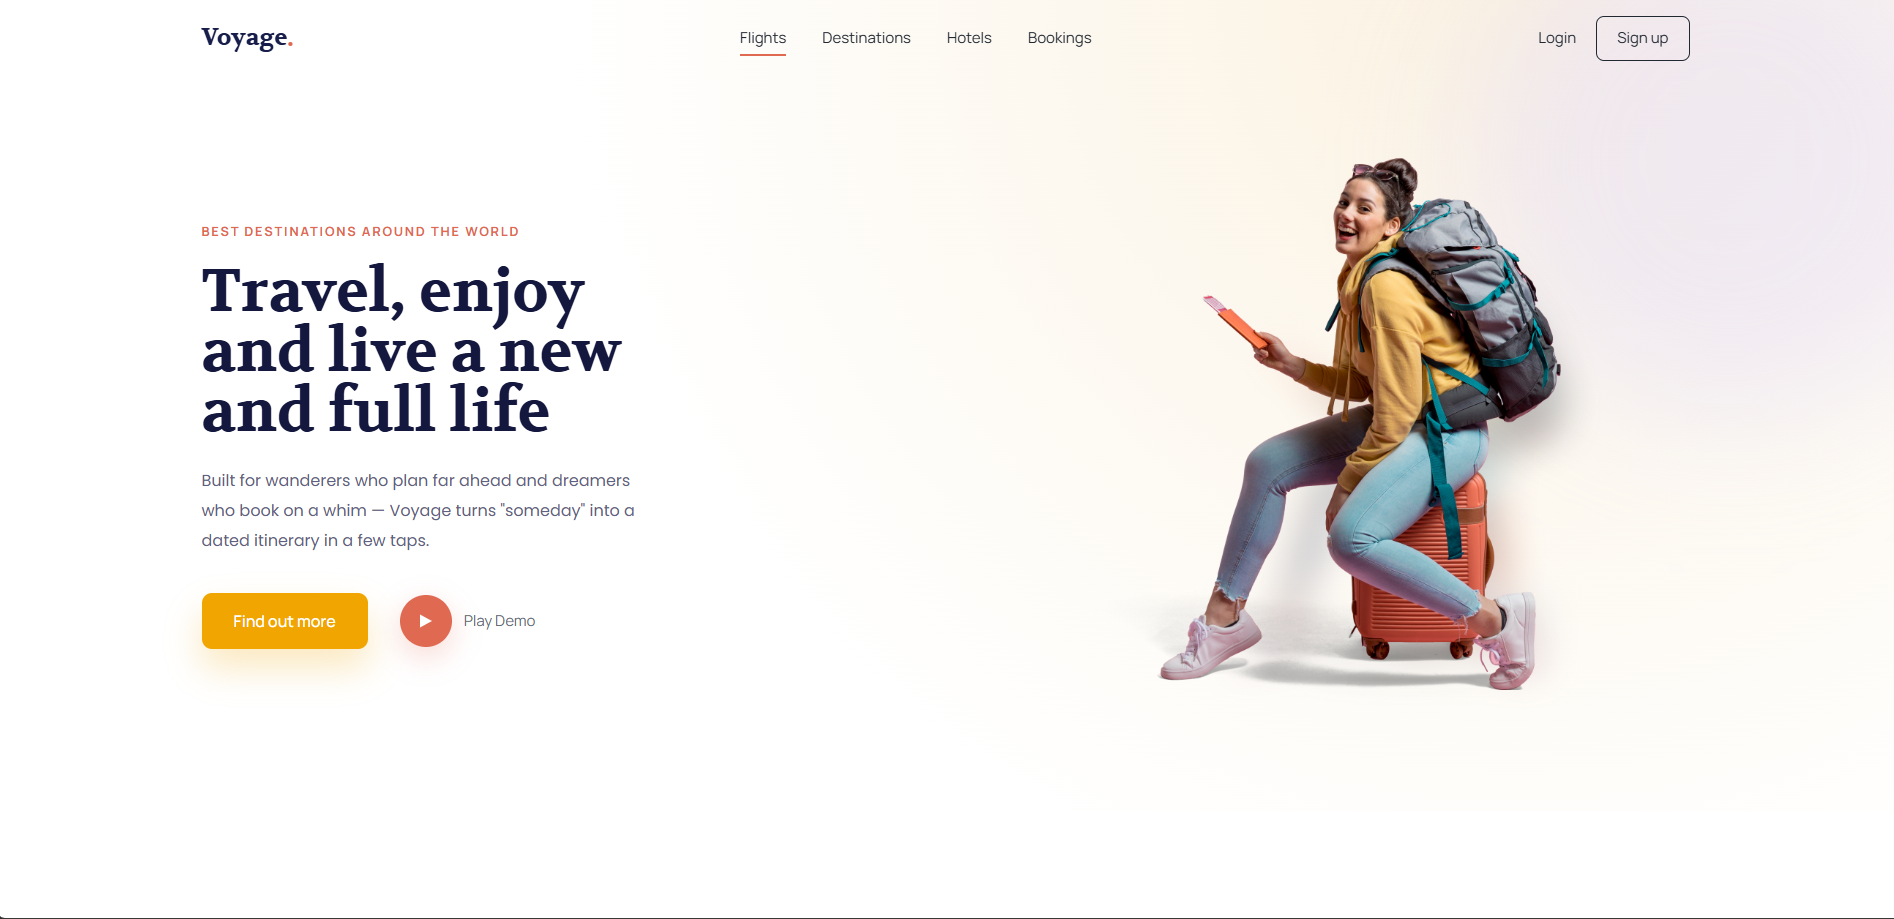
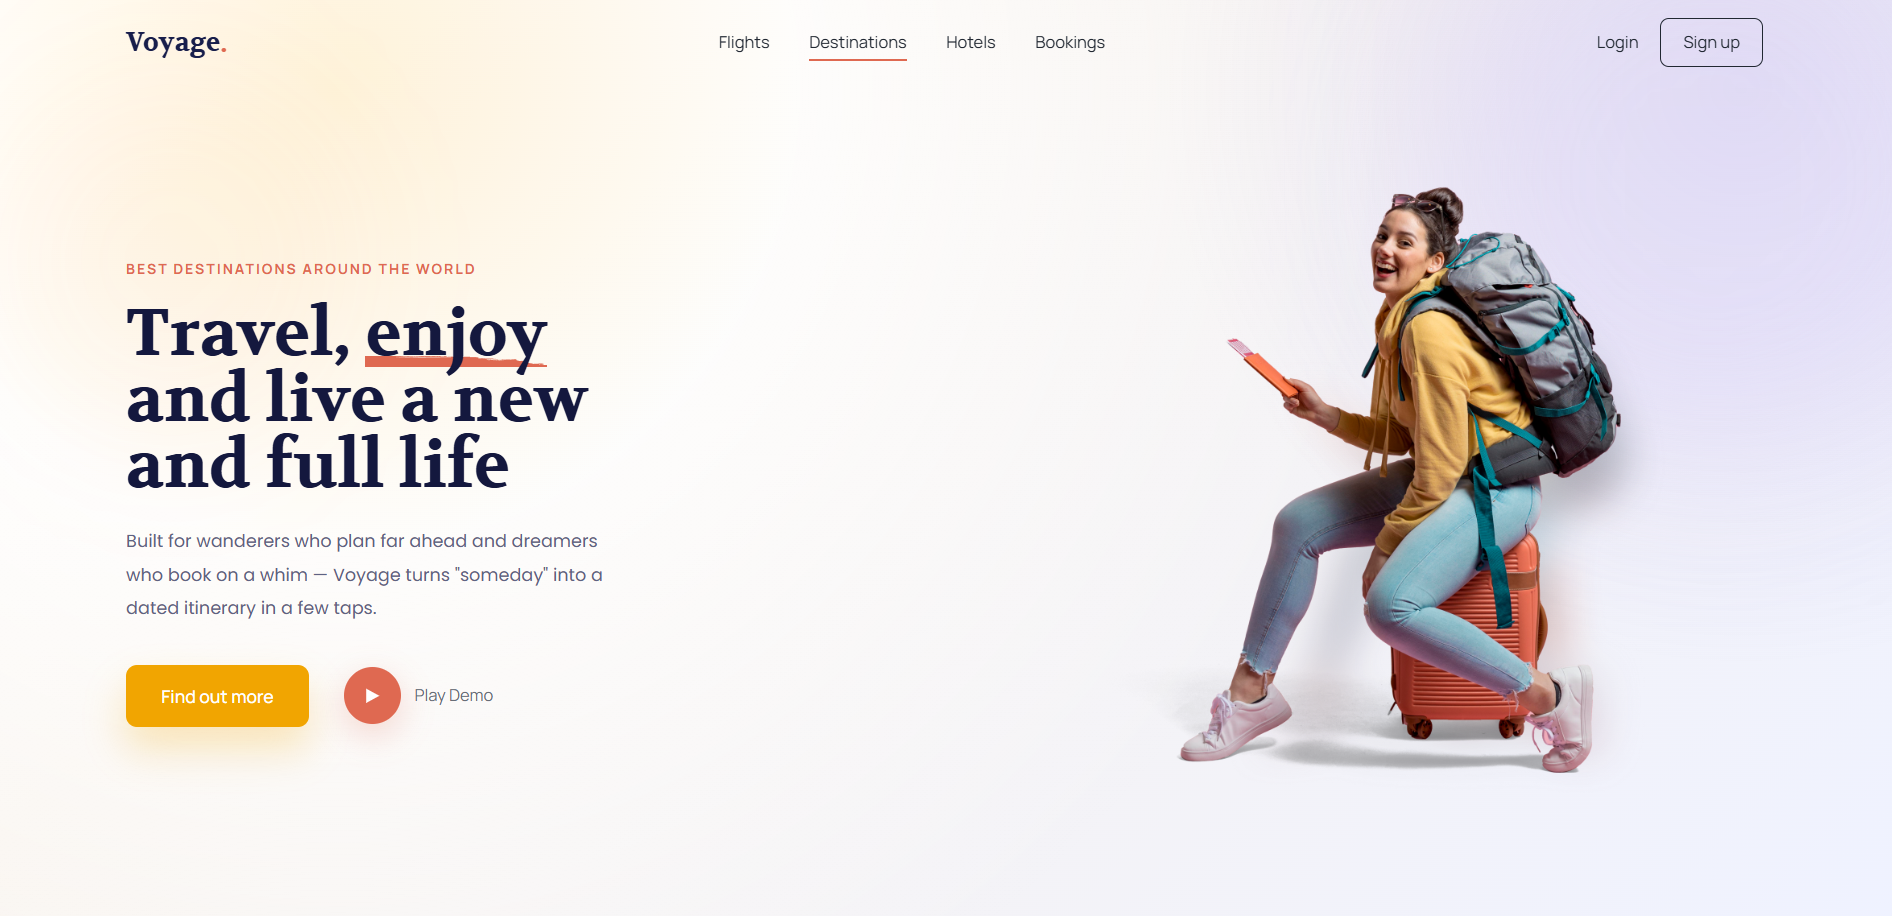
edited projects section

diff --git a/src/data/projects.js b/src/data/projects.js
@@ -31,6 +31,7 @@ import nightwaveThumbnail from '../assets/images/NightWave/nightwave.JPG';
 import harborbookThumbnail from '../assets/images/HarborBook/harborbook.JPG';
 import freshplateThumbnail from '../assets/images/FreshPlate/thumbnaill.JPG';
 import coursecompassThumbnail from '../assets/images/CourseCompass/thumbnail.JPG';
+import emberThumbnail from '../assets/images/Ember/ember-thumbnail.PNG';
 import voyageThumbnail from '../assets/images/Voyage/voyage-thumbnail.png';
 import plantumThumbnail from '../assets/images/Plantum/plantum-thumbnail.png';
 import plantumDemo from '../assets/videos/plantum/plantum-demo.mp4';
@@ -179,6 +180,24 @@ const projects = [
     ],
   },
   {
+    slug: 'ember',
+    title: 'Ember',
+    description:
+      'A marketing landing page for a copy-paste SaaS landing kit — polished dark, amber-toned pages for product teams who want to ship without designing from scratch.',
+    longDescription:
+      'Ember is a marketing landing page for a copy-paste SaaS landing kit. Aimed at product teams who want a polished dark, amber-toned site without designing from scratch — drop the React, shadcn/ui, and Tailwind components into a Next.js app, swap branding and copy, and ship.',
+    role: 'Product Designer & Frontend Developer',
+    tech: ['React', 'Next.js', 'Tailwind CSS', 'SaaS'],
+    year: '2026',
+    thumbnail: emberThumbnail,
+    externalLink: 'https://ember-eight-peach.vercel.app/',
+    highlights: [
+      'Copy-paste landing kit for React, shadcn/ui, and Tailwind',
+      'Dark amber-toned marketing site tuned for SaaS launches',
+      'Drop components into Next.js, swap brand and copy, then ship',
+    ],
+  },
+  {
     slug: 'coursecompass',
     title: 'CourseCompass',
     description:
@@ -196,6 +215,7 @@ const projects = [
       'User-friendly dashboard with insights',
     ],
   },
+
   {
     slug: 'flowlaunch',
     title: 'FlowLaunch',

diff --git a/src/components/ProjectCard.jsx b/src/components/ProjectCard.jsx
@@ -2,8 +2,17 @@ import { memo } from 'react';
 import { Link } from 'react-router-dom';
 import { motion } from 'framer-motion';
 
+const CONTAIN_THUMBNAIL_SLUGS = new Set([
+  'voyage',
+  'verdura',
+  'aqro-mobile-app',
+  'dictionary-app-java',
+  'roomba-boarding-house-finder',
+]);
+
 function ProjectCard({ project }) {
   const isExternal = !!project.externalLink;
+  const containThumbnail = CONTAIN_THUMBNAIL_SLUGS.has(project.slug);
   const linkProps = isExternal
     ? {
         href: project.externalLink,
@@ -29,12 +38,20 @@ function ProjectCard({ project }) {
           isExternal ? `Visit ${project.title}` : `Learn more about ${project.title}`
         }
       >
-        <div className="relative aspect-[16/10] bg-white/[0.03] overflow-hidden flex items-center justify-center flex-shrink-0 border-b border-white/10">
+        <div
+          className={`relative aspect-[16/10] bg-white/[0.03] overflow-hidden flex-shrink-0 border-b border-white/10 ${
+            containThumbnail ? 'flex items-center justify-center' : ''
+          }`}
+        >
           {project.thumbnail ? (
             <img
               src={project.thumbnail}
               alt={project.title}
-              className="max-w-full max-h-full object-contain"
+              className={
+                containThumbnail
+                  ? 'max-w-full max-h-full object-contain'
+                  : 'absolute inset-0 w-full h-full object-cover'
+              }
             />
           ) : null}
         </div>
